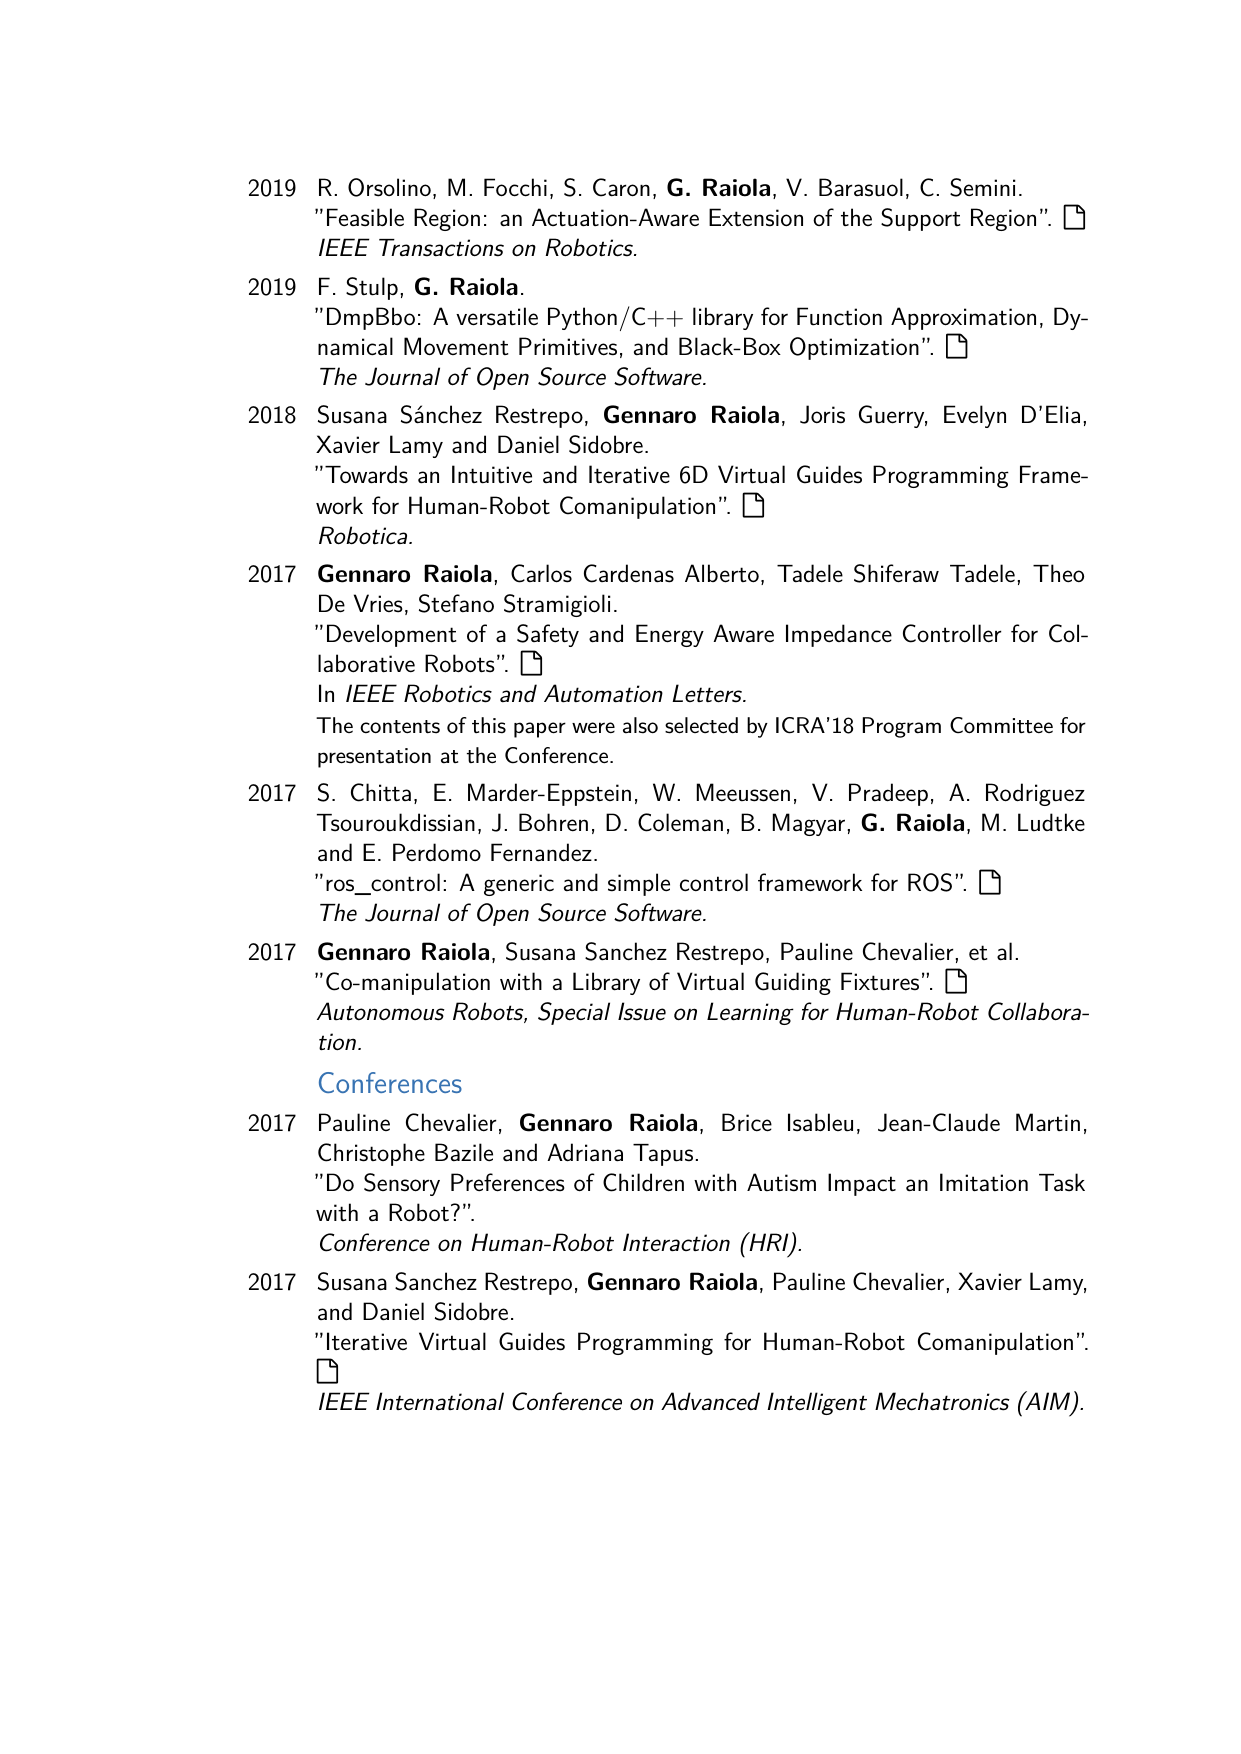
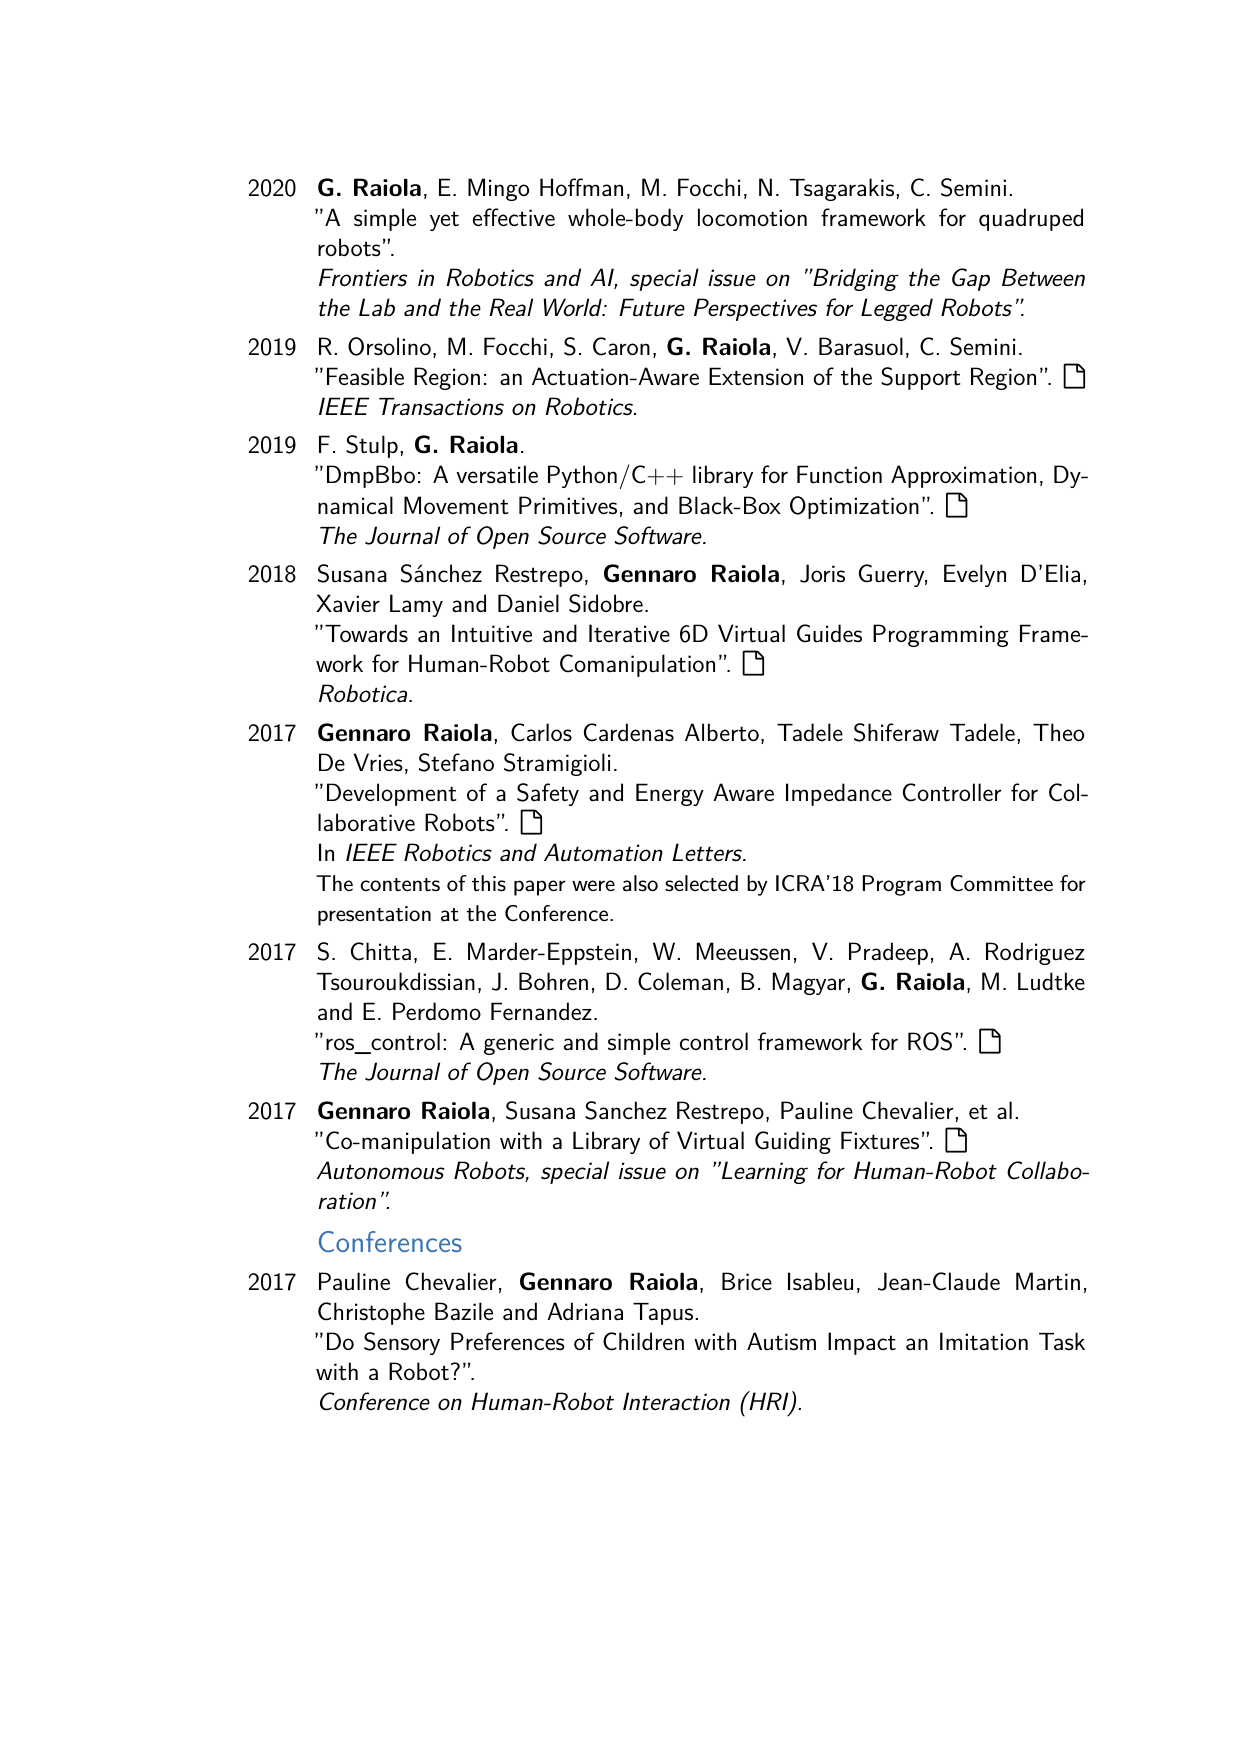
Generated files updated on Fri Nov 20 07:17:45 EST 2020

Changed region(s): [[0.1837, 0.0924, 0.888, 0.8005]]

diff --git a/CV_Gennaro-Raiola.tex b/CV_Gennaro-Raiola.tex
@@ -244,7 +244,7 @@ This library has been successfully used with the SoftBank robot Pepper to learn 
 \cvitem{2020}{\textbf{G. Raiola}, E. Mingo Hoffman, M. Focchi, N. Tsagarakis, C. Semini. \newline{}
 "A simple yet effective whole-body locomotion framework for quadruped robots".
 \newline
-\emph{Frontiers in Robotics and AI.}}
+\emph{Frontiers in Robotics and AI, special issue on "Bridging the Gap Between the Lab and the Real World: Future Perspectives for Legged Robots".}}
 
 \cvitem{2019}{R. Orsolino, M. Focchi, S. Caron, \textbf{G. Raiola}, V. Barasuol, C. Semini. \newline{}
 "Feasible Region: an Actuation-Aware Extension of the Support Region".
@@ -286,7 +286,7 @@ In \emph{IEEE Robotics and Automation Letters.}
 "Co-manipulation with a Library of Virtual Guiding Fixtures".
 \href{https://hal.archives-ouvertes.fr/hal-01663467/document}{\faFile \underline {}} 
 \newline
-\emph{Autonomous Robots, Special Issue on Learning for Human-Robot Collaboration.}}
+\emph{Autonomous Robots, special issue on "Learning for Human-Robot Collaboration".}}
 
 %\vspace{0.25cm}
 
